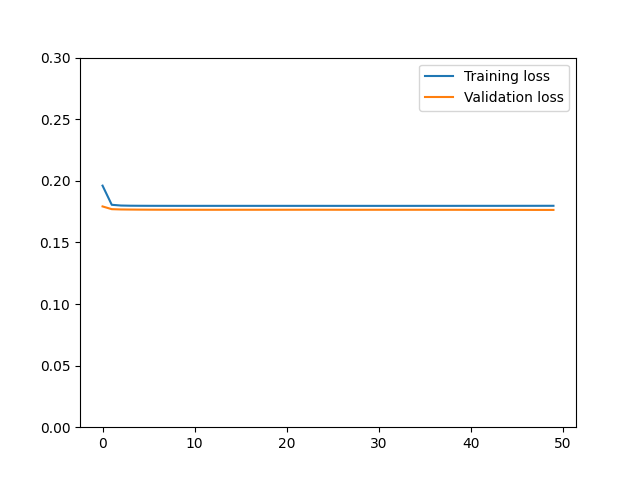
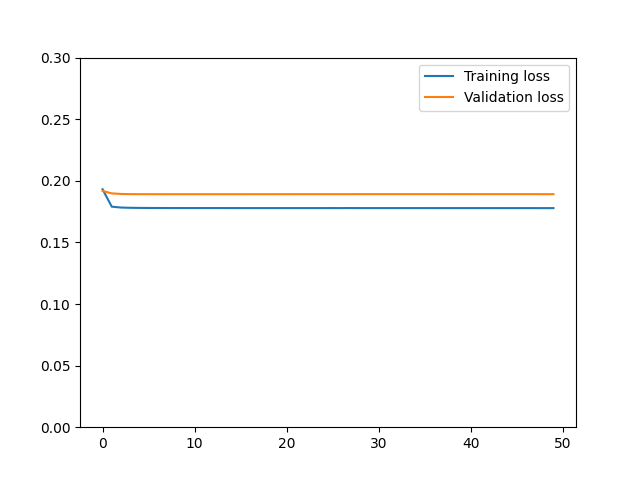
added optuna optim history, training final model, some plots, and adjustments to training for the final model

Changed region(s): [[0.1562, 0.375, 0.875, 0.4375]]

diff --git a/main.py b/main.py
@@ -3,11 +3,21 @@ from src.dataset import TimeSeriesDataset
 from src.blockedcv import BlockedTimeSeriesSplit
 import torch
 from torch.utils.data import DataLoader, Subset
-from src.train import objective
+from src.train import objective, train_final_model
 import optuna
+import matplotlib.pyplot as plt
+import pickle
+
+
+INPUT_SIZE = 5  # window size, can be adjusted to any value if needed
+OUTPUT_SIZE = 1  # next point
+
+def plot_best(trial):
+    fig = optuna.visualization.plot_optimization_history(trial)
+    fig.write_image("plots/optimization_history.png")
+
 
 if __name__ == "__main__":
-
     # Data is preprocessed using the preprocess function
     preprocessed_data = preprocess()
     # Preprocessed img of data is in the plots folder
@@ -15,21 +25,22 @@ if __name__ == "__main__":
     print(preprocessed_data)
     device = torch.device("cuda" if torch.cuda.is_available() else "cpu")
     print("Device:", device)
-    
 
     # Create dataset
     dataset = TimeSeriesDataset(preprocessed_data, window_size=5)
-    pruner = optuna.pruners.HyperbandPruner(min_resource=1, max_resource='auto', reduction_factor=3)
+    pruner = optuna.pruners.HyperbandPruner(
+        min_resource=1, max_resource="auto", reduction_factor=3
+    )
 
     study = optuna.create_study(direction="minimize", pruner=pruner)
     # split first to make a test set, maybe use timeseriessplit
-    
+
     # Define the size of your test set
     test_size = int(len(dataset) * 0.2)  # 20% of data for testing
     train_val_size = len(dataset) - test_size
 
     # Split the data into training+validation set and test set
-    
+
     # Create indices for the splits
     train_val_indices = list(range(train_val_size))
     test_indices = list(range(train_val_size, len(dataset)))
@@ -37,37 +48,64 @@ if __name__ == "__main__":
     train_val_data = Subset(dataset, train_val_indices)
     test_data = Subset(dataset, test_indices)
 
-    blocked_split = BlockedTimeSeriesSplit(n_splits=5)
+    tuning_mode = True
 
-    for train_indices, val_indices in blocked_split.split(train_val_data):
-        train_subset = Subset(dataset, train_indices)
-        val_subset = Subset(dataset, val_indices)
+    if tuning_mode:
+        blocked_split = BlockedTimeSeriesSplit(n_splits=5)
 
-        train_loader = DataLoader(train_subset, batch_size=32, shuffle=False, drop_last=True)
-        val_loader = DataLoader(val_subset, batch_size=32, shuffle=False, drop_last=True)
-        
-        print(f"Train indices: {train_indices}")
-        print(f"Val indices: {val_indices}")
+        for train_indices, val_indices in blocked_split.split(train_val_data):
+            train_subset = Subset(dataset, train_indices)
+            val_subset = Subset(dataset, val_indices)
 
-        study.optimize(lambda trial: objective(trial, train_loader, val_loader, device), n_trials=50)
+            train_loader = DataLoader(
+                train_subset, batch_size=32, shuffle=False, drop_last=True
+            )
+            val_loader = DataLoader(
+                val_subset, batch_size=32, shuffle=False, drop_last=True
+            )
 
-    # Print the best hyperparameters
+            print(f"Train indices: {train_indices}")
+            print(f"Val indices: {val_indices}")
 
-    print("Best hyperparameters:")
-    print(study.best_params)
-    print("Best value:")
-    print(study.best_value)
-    for key, value in study.best_params.items():
-        print(f"    {key}: {value}")
+            study.optimize(
+                lambda trial: objective(trial, train_loader, val_loader, device),
+                n_trials=50,
+            )
 
-    with open("Best_hyperparameters.txt", "w") as f:
-        f.write("Best trial:\n")
-        trial = study.best_trial
-        f.write(f" Value: {trial.value}\n")
-        f.write(" Params: \n")
-        for key, value in trial.params.items():
-            f.write(f"    {key}: {value}\n")
+        # Print the best hyperparameters
+        print("Best hyperparameters:")
+        print(study.best_params)
+        print("Best value:")
+        print(study.best_value)
+        for key, value in study.best_params.items():
+            print(f"    {key}: {value}")
 
+        with open("Best_hyperparameters.txt", "w") as f:
+            f.write("Best trial\n")
+            trial = study.best_trial
+            f.write(f" Value {trial.value}\n")
+            f.write(" Params \n")
+            for key, value in trial.params.items():
+                f.write(f"    {key}: {value}\n")
 
-# use test set with smape measure for accuracy
-# retrend the data for this
+        with open("study.pkl", "wb") as f:
+            pickle.dump(study, f)
+    else:
+        best_params = {}
+        with open("habrok_output/06-06/Best_hyperparameters.txt", "r") as f:
+            lines = f.readlines()
+            for line in lines:
+                if ":" in line:
+                    key, value = line.strip().split(":")
+                    best_params[key.strip()] = float(
+                        value.strip()
+                    )  # assuming all parameters are float
+        print(best_params)
+        # Train the model with the best hyperparameters
+        print("Training the model with the best hyperparameters...")
+        # Combine training and validation sets for final training
+        combined_train_val_loader = DataLoader(train_val_data, batch_size=32, shuffle=False, drop_last=True)
+        # train_final_model(train_val_data, combined_train_val_loader, best_params, device)
+        with open("study.pkl", "rb") as f:
+            study = pickle.load(f)
+            plot_best(study)

diff --git a/src/train.py b/src/train.py
@@ -2,9 +2,8 @@
 from .mlp import MLP, SMAPELoss
 import optuna
 import torch
-import matplotlib.pyplot as plt
 from tqdm import tqdm
-
+import matplotlib.pyplot as plt
 
 
 INPUT_SIZE = 5  # window size, can be adjusted to any value if needed
@@ -18,7 +17,10 @@ def evaluate(model, validation_loader, criterion, device):
 
     with torch.no_grad():  # disable gradient computation
         for data, target in validation_loader:
-            data, target = data.to(device), target.to(device)  # Move data and target to the correct device
+            data, target = (
+                data.to(device),
+                target.to(device),
+            )  # Move data and target to the correct device
             outputs = model(data)
             loss = criterion(outputs, target)
             validation_loss += loss.item()
@@ -27,17 +29,30 @@ def evaluate(model, validation_loader, criterion, device):
     return validation_loss
 
 
-
-def train_epoch(model, train_loader, criterion, optimizer, device, val_loader, trial, epoch, num_epochs):
+def train_epoch(
+    model,
+    train_loader,
+    criterion,
+    optimizer,
+    device,
+    val_loader,
+    trial,
+    epoch,
+    num_epochs,
+):
     model = model.to(device)
     model.train()
     total_loss = 0
 
-    progress_bar = tqdm(train_loader, desc=f"Epoch {epoch+1}/{num_epochs}", position=0, leave=True)
+    progress_bar = tqdm(
+        train_loader, desc=f"Epoch {epoch+1}/{num_epochs}", position=0, leave=True
+    )
 
     for inputs, targets in progress_bar:
         inputs = inputs.to(device)
-        targets = targets.to(device) # Reshape the targets tensor to match the output tensor
+        targets = targets.to(
+            device
+        )  # Reshape the targets tensor to match the output tensor
         optimizer.zero_grad()
         outputs = model(inputs)
         loss = criterion(outputs, targets)
@@ -48,15 +63,51 @@ def train_epoch(model, train_loader, criterion, optimizer, device, val_loader, t
 
     avg_loss = total_loss / len(train_loader)
     val_loss = evaluate(model, val_loader, criterion, device)
-    progress_bar.set_postfix({"training_loss": "{:.3f}".format(avg_loss), "val_loss": val_loss})
+    progress_bar.set_postfix(
+        {"training_loss": "{:.3f}".format(avg_loss), "val_loss": val_loss}
+    )
 
     if trial.should_prune():
         raise optuna.TrialPruned()
 
     trial.report(val_loss, epoch)
-    print(f"Epoch {epoch+1}/{num_epochs}, Average Loss: {avg_loss}, Validation Loss: {val_loss}")
+    print(
+        f"Epoch {epoch+1}/{num_epochs}, Average Loss: {avg_loss}, Validation Loss: {val_loss}"
+    )
 
     return avg_loss, val_loss
+
+
+def train_final_model(train_val_data,combined_train_val_loader, best_params, device):
+    model = MLP(input_size=INPUT_SIZE, hidden_size=int(best_params["hidden_size"]), output_size=OUTPUT_SIZE)
+    optimizer = torch.optim.Adam(model.parameters(), lr=best_params["lr"], weight_decay=best_params["lambda_reg"])
+    criterion = torch.nn.MSELoss().to(device)
+    model = model.to(device)
+    criterion = criterion.to(device)
+    num_epochs = 50
+    all_train_losses = []
+    for epoch in range(num_epochs):
+        model.train()
+        total_loss = 0
+        for inputs, targets in combined_train_val_loader:
+            inputs, targets = inputs.to(device), targets.to(device)
+            optimizer.zero_grad()
+            outputs = model(inputs)
+            loss = criterion(outputs, targets)
+            loss.backward()
+            optimizer.step()
+            total_loss += loss.item()
+        avg_loss = total_loss / len(combined_train_val_loader)
+        all_train_losses.append(avg_loss)
+        print(f"Epoch {epoch+1}/{num_epochs}, Loss: {avg_loss}")
+    torch.save(model.state_dict(), "models/final_model.pth")
+    plt.figure()
+    plt.plot(all_train_losses, label="Training loss")
+    plt.legend()
+    plt.xlabel("Epoch")
+    plt.ylabel("Loss")
+    plt.title("Training Loss over Epochs")
+    plt.savefig("plots/final_training_loss.png")
 
 
 def objective(trial, train_loader, val_loader, device):
@@ -67,7 +118,9 @@ def objective(trial, train_loader, val_loader, device):
 
     # Define model and optimizer with the hyperparameters
     model = MLP(input_size=INPUT_SIZE, hidden_size=hidden_size, output_size=OUTPUT_SIZE)
-    optimizer = torch.optim.Adam(model.parameters(), lr=learning_rate, weight_decay=lambda_reg)
+    optimizer = torch.optim.Adam(
+        model.parameters(), lr=learning_rate, weight_decay=lambda_reg
+    )
 
     # Define loss function
     criterion = torch.nn.MSELoss().to(device)
@@ -81,22 +134,22 @@ def objective(trial, train_loader, val_loader, device):
     train_losses = []
     val_losses = []
     for epoch in range(num_epochs):
-        train_loss, val_loss = train_epoch(model, train_loader, criterion, optimizer, device, val_loader, trial, epoch, num_epochs)
+        train_loss, val_loss = train_epoch(
+            model,
+            train_loader,
+            criterion,
+            optimizer,
+            device,
+            val_loader,
+            trial,
+            epoch,
+            num_epochs,
+        )
         train_losses.append(train_loss)
         val_losses.append(val_loss)
-
-
-    # Plotting
-    plt.figure()
-    plt.plot(train_losses, label='Training loss')
-    plt.plot(val_losses, label='Validation loss')
-    plt.legend()
-    plt.ylim([0,0.3])
-    plt.savefig("plots/validation_vs_training_loss.png")
 
     # Evaluate the model on your validation set
     validation_loss = evaluate(model, val_loader, criterion, device)
 
     return validation_loss
-
 
